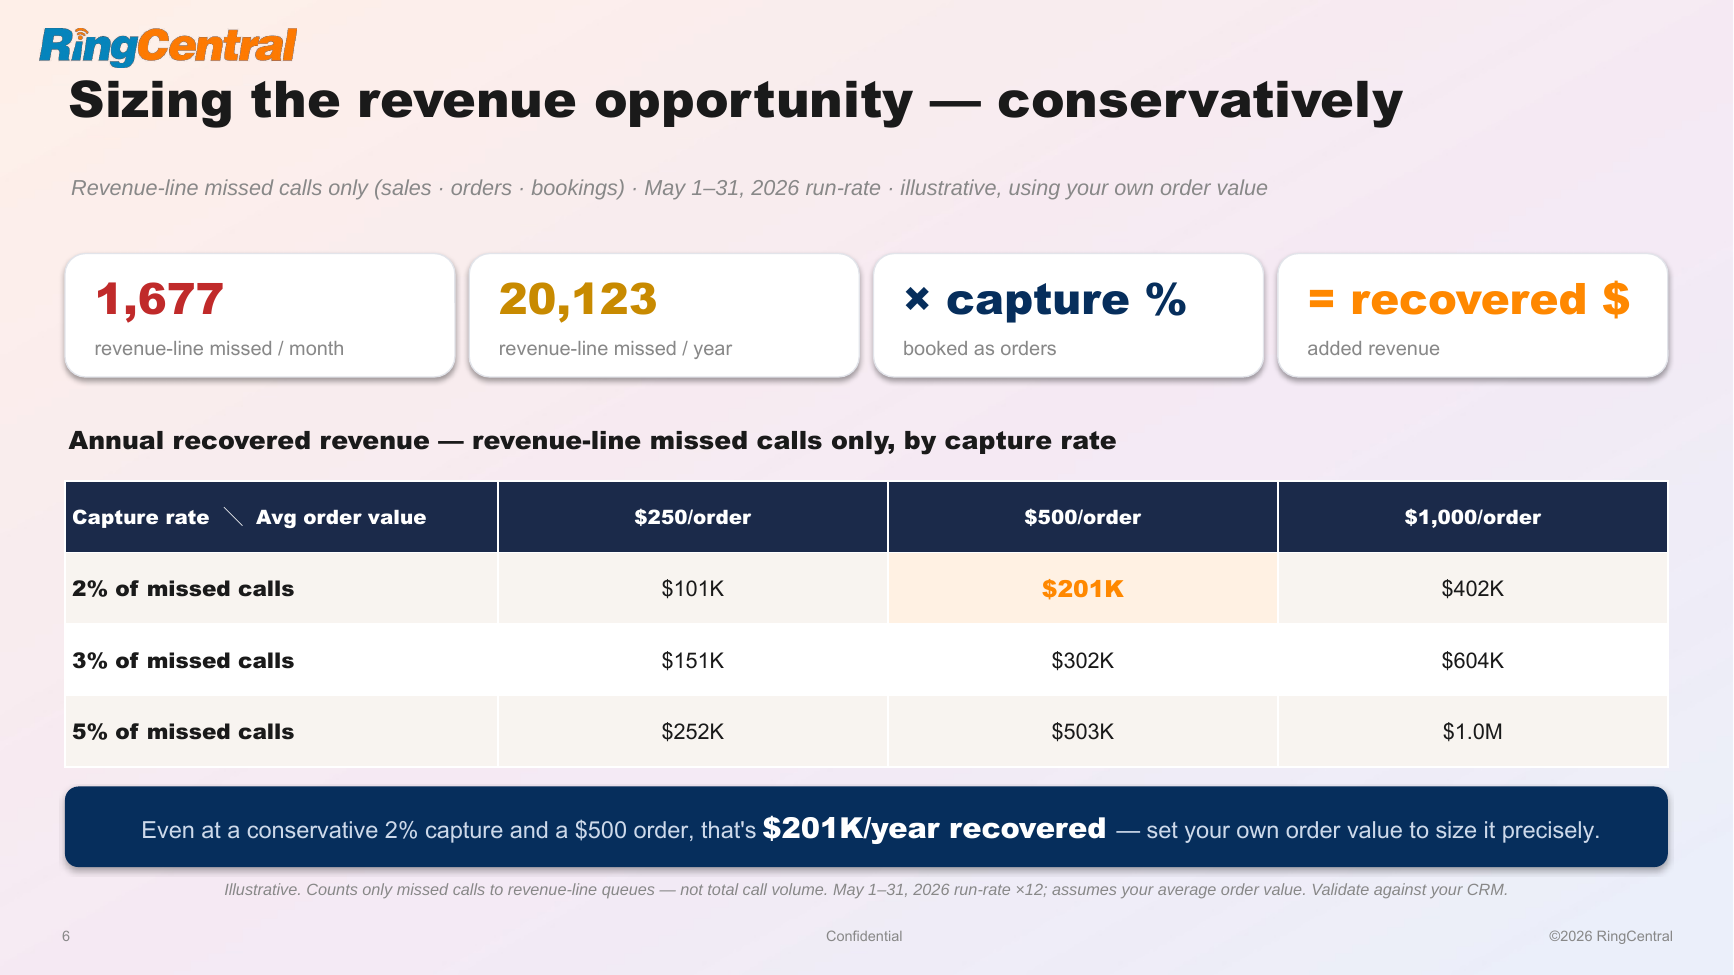
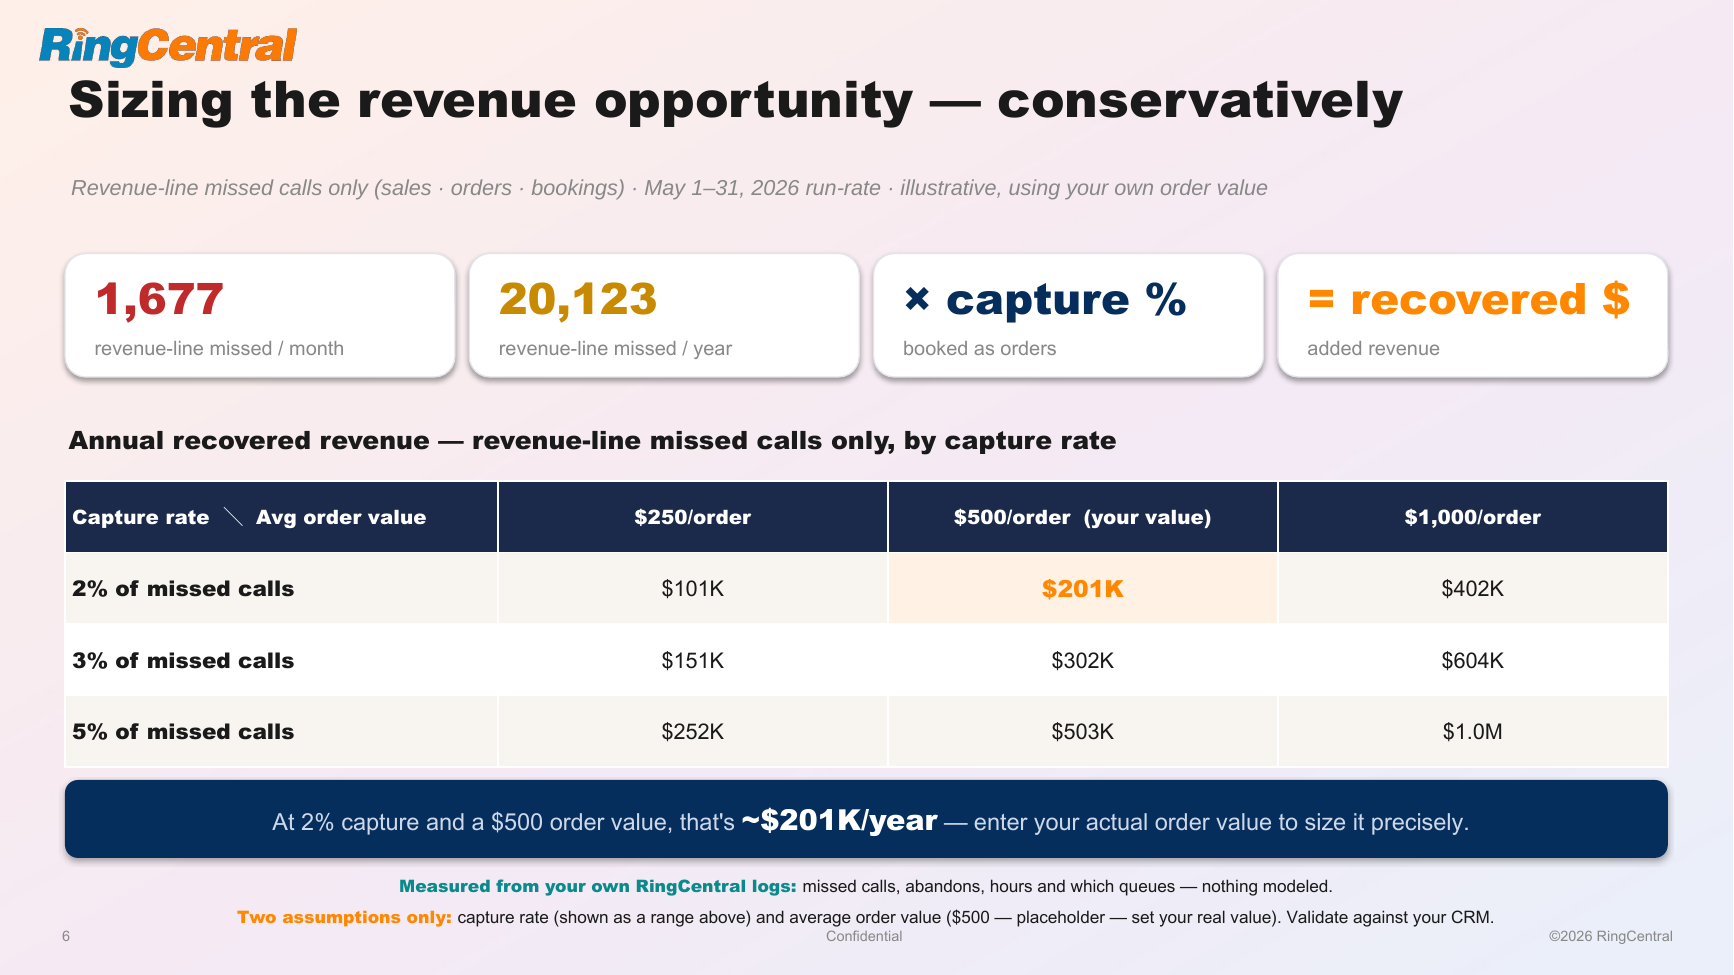
Make order value defensible — track provenance, label measured vs assumed
The ROI rests on one non-measured input: average order value. Capture it
up front (editable field on the upload screen, pre-filled with the website
crawl estimate) and label its source in the deck (supplied / estimate /
default). Slide 6 now carries a "measured vs. assumed" band so a CFO can
see exactly which numbers come from their own RingCentral logs and which
two are assumptions to validate.

Changed region(s): [[0.0311, 0.8, 0.9654, 0.9538], [0.5294, 0.5231, 0.7163, 0.5538]]

diff --git a/templates/upload.html b/templates/upload.html
@@ -73,6 +73,23 @@
       excluded from the missed-call count.
     </p>
 
+    <label for="avg_order_value">Average order value <span style="font-weight:400;color:#999;">(recommended)</span></label>
+    <div style="position:relative;max-width:240px;">
+      <span style="position:absolute;left:12px;top:50%;transform:translateY(-50%);color:#888;">$</span>
+      <input type="number" id="avg_order_value" name="avg_order_value" min="1" step="1"
+             style="padding-left:1.6rem;" placeholder="e.g. 2500">
+    </div>
+    <p style="font-size:0.82rem;color:#888;margin:0.1rem 0 1.25rem;">
+      This is the <strong>only</strong> number on the revenue slide not measured from your call logs —
+      so it's worth getting right. Enter the customer's actual average order value and the model uses
+      <em>their</em> figure (fully defensible).
+      {% if business and business.suggested_avg_order_value %}
+        We estimated <strong>${{ "{:,}".format(business.suggested_avg_order_value|int) }}</strong> from
+        their website — replace it with the real number if you have it.
+      {% endif %}
+      Leave blank and the slide clearly labels the value as an estimate to confirm.
+    </p>
+
     <button type="submit" id="generate-btn" class="btn btn-primary">Generate deck →</button>
     <span id="upload-status" style="display:none;margin-left:0.85rem;font-size:0.88rem;
           color:#9a5a00;vertical-align:middle;">

diff --git a/deck.py b/deck.py
@@ -942,18 +942,40 @@ def _slide_revenue(prs, r: PipelineResult, ctx, narr):
     _revenue_table(s, m, aov, cap_hi, Inches(0.5), Inches(3.7), Inches(12.33))
 
     # Headline takeaway — lead with the CONSERVATIVE cell, framed as a floor.
+    # Wording flexes with where the order value came from, so we never assert an
+    # AI-guessed number as if it were the customer's own figure.
+    src = ctx.get("aov_source", "default")
     rec_lo = cap_hi * rev_year * aov
-    _rect(s, Inches(0.5), Inches(6.05), Inches(12.33), Inches(0.62), RC_BLUE, radius=True)
-    _rich(s, [[
-        (f"Even at a conservative {round(cap_hi*100)}% capture and a ${aov:,} order, that's ", {"size": 13, "color": RGBColor(0xCD,0xD9,0xEA)}),
-        (f"{_money(rec_lo)}/year recovered ", {"bold": True, "size": 16, "color": WHITE, "font": FONT}),
-        ("— set your own order value to size it precisely.", {"size": 13, "color": RGBColor(0xCD,0xD9,0xEA)}),
-    ]], Inches(0.7), Inches(6.16), Inches(12.0), Inches(0.4), anchor=MSO_ANCHOR.MIDDLE, align=PP_ALIGN.CENTER)
-    # Explicit caveat line so no exec can say it was hidden.
-    _text(s, f"Illustrative. Counts only missed calls to revenue-line queues — not total call volume. "
-             f"{ctx.get('reporting_period','')} run-rate ×12; assumes your average order value. Validate against your CRM.",
-          Inches(0.5), Inches(6.75), Inches(12.33), Inches(0.4),
-          size=9, italic=True, color=GRAY, align=PP_ALIGN.CENTER)
+    _lt = RGBColor(0xCD, 0xD9, 0xEA)
+    _rect(s, Inches(0.5), Inches(6.0), Inches(12.33), Inches(0.6), RC_BLUE, radius=True)
+    if src == "supplied":
+        head_segs = [
+            (f"Even at a conservative {round(cap_hi*100)}% capture and your ${aov:,} order value, that's ", {"size": 13, "color": _lt}),
+            (f"{_money(rec_lo)}/year recovered.", {"bold": True, "size": 16, "color": WHITE, "font": FONT}),
+        ]
+    else:
+        head_segs = [
+            (f"At {round(cap_hi*100)}% capture and a ${aov:,} order value, that's ", {"size": 13, "color": _lt}),
+            (f"~{_money(rec_lo)}/year", {"bold": True, "size": 16, "color": WHITE, "font": FONT}),
+            (" — enter your actual order value to size it precisely.", {"size": 13, "color": _lt}),
+        ]
+    _rich(s, [head_segs], Inches(0.7), Inches(6.1), Inches(12.0), Inches(0.4),
+          anchor=MSO_ANCHOR.MIDDLE, align=PP_ALIGN.CENTER)
+
+    # "Measured vs. assumed" provenance band — the single most defensible element
+    # on the deck's one modeled slide: it states plainly what is the customer's own
+    # data versus the two inputs we assume (and exactly where the order value came from).
+    prov = {"supplied": "your figure",
+            "estimate": "website estimate — confirm with your team",
+            "default": "placeholder — set your real value"}.get(src, "placeholder")
+    by = Inches(6.72)
+    _rich(s, [[("Measured from your own RingCentral logs: ", {"bold": True, "size": 9.5, "color": RC_TEAL, "font": FONT}),
+               ("missed calls, abandons, hours and which queues — nothing modeled.", {"size": 9.5, "color": DARK})]],
+          Inches(0.5), by, Inches(12.33), Inches(0.24), align=PP_ALIGN.CENTER)
+    _rich(s, [[("Two assumptions only: ", {"bold": True, "size": 9.5, "color": RC_ORANGE, "font": FONT}),
+               (f"capture rate (shown as a range above) and average order value (${aov:,} — {prov}). "
+                "Validate against your CRM.", {"size": 9.5, "color": DARK})]],
+          Inches(0.5), by + Inches(0.24), Inches(12.33), Inches(0.24), align=PP_ALIGN.CENTER)
     _footer(s, 8)
 
 
@@ -977,7 +999,9 @@ def _revenue_table(s, m, aov, cap_hi, x, y, w):
     for j, col_aov in enumerate(aovs, 1):
         c = tbl.cell(0, j)
         c.fill.solid(); c.fill.fore_color.rgb = RC_NAVY
-        _cell(c, f"${col_aov:,}/order", WHITE, bold=True, size=11, align=PP_ALIGN.CENTER)
+        # Flag the column that uses the customer's own order value.
+        htxt = f"${col_aov:,}/order" + ("  (your value)" if col_aov == aov else "")
+        _cell(c, htxt, WHITE, bold=True, size=11, align=PP_ALIGN.CENTER)
     for i, cap in enumerate(CAPTURE_RATES, 1):
         c0 = tbl.cell(i, 0)
         c0.fill.solid(); c0.fill.fore_color.rgb = ROW_ALT if i % 2 else WHITE
@@ -1184,10 +1208,19 @@ def build_deck(result: PipelineResult, run_id: str, customer: str, ae_name: str,
         except (TypeError, ValueError):
             return None
 
-    aov = _num(overrides.get("avg_order_value"))
-    if aov is None and business:
-        aov = _num(business.get("suggested_avg_order_value"))
-    ctx["aov"] = int(aov) if aov and aov > 0 else AVG_ORDER_VALUE
+    # Order value is the ONE figure on the ROI slide not measured from the call
+    # logs, so its provenance is tracked and stamped on the slide. Precedence:
+    #   1. supplied  — the AE/customer entered it (their number → defensible)
+    #   2. estimate  — inferred by the website crawl (a starting point to confirm)
+    #   3. default   — no signal at all (a placeholder, clearly flagged)
+    aov_override = _num(overrides.get("avg_order_value"))
+    aov_suggest = _num(business.get("suggested_avg_order_value")) if business else None
+    if aov_override and aov_override > 0:
+        ctx["aov"], ctx["aov_source"] = int(aov_override), "supplied"
+    elif aov_suggest and aov_suggest > 0:
+        ctx["aov"], ctx["aov_source"] = int(aov_suggest), "estimate"
+    else:
+        ctx["aov"], ctx["aov_source"] = AVG_ORDER_VALUE, "default"
 
     air_rate = _num(overrides.get("air_rate_per_min"))
     ctx["air_rate"] = air_rate if air_rate and air_rate > 0 else AIR_RATE_PER_MIN

diff --git a/app.py b/app.py
@@ -205,6 +205,20 @@ def upload(run_id):
     session["queues_filename"] = queues_file.filename
     session["reporting_period"] = request.form.get("reporting_period", "").strip()
 
+    # Average order value: the one ROI input not measured from the call logs. When
+    # the AE enters it, store it as a supplied override so the deck treats it as the
+    # customer's own figure (not an AI estimate). Blank → fall back to crawl estimate.
+    aov_raw = (request.form.get("avg_order_value") or "").strip().replace(",", "")
+    if aov_raw:
+        try:
+            aov_val = int(float(aov_raw))
+            if aov_val > 0:
+                overrides = session.get("overrides", {}) or {}
+                overrides["avg_order_value"] = aov_val
+                session["overrides"] = overrides
+        except ValueError:
+            pass
+
     return redirect(url_for("generate", run_id=run_id))
 
 